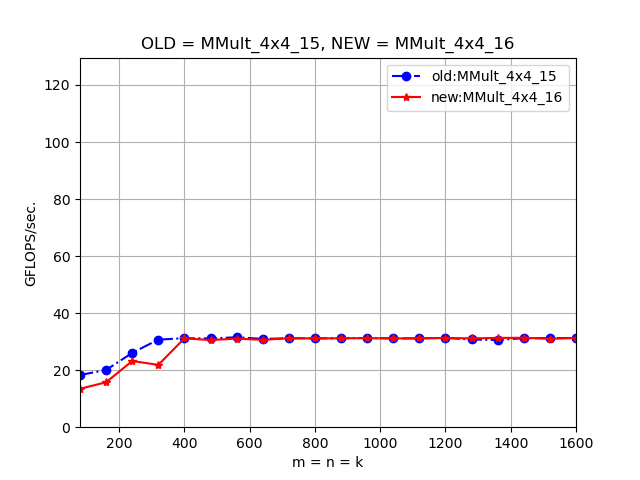
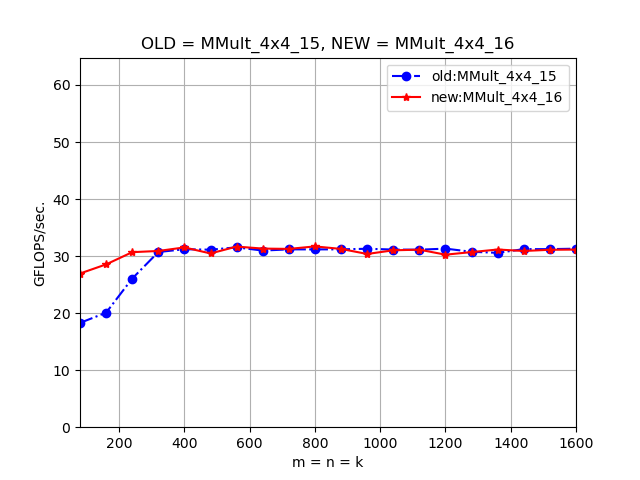
Replaced SSE with Neon directly

diff --git a/src/HowToOptimizeGemm/MMult_4x4_17.c b/src/HowToOptimizeGemm/MMult_4x4_17.c
@@ -1,0 +1,193 @@
+/* Create macros so that the matrices are stored in column-major order */
+
+#define A(i, j) a[(j) * lda + (i)]
+#define B(i, j) b[(j) * ldb + (i)]
+#define C(i, j) c[(j) * ldc + (i)]
+
+/* Block sizes */
+#define mc 256
+#define kc 128
+#define nb 1600
+
+#define min(i, j) ((i) < (j) ? (i) : (j))
+
+/* Routine for computing C = A * B + C */
+
+void AddDot4x4(int, double *, int, double *, int, double *, int);
+void PackMatrixA(int, double *, int, double *);
+void PackMatrixB(int, double *, int, double *);
+void InnerKernel(int, int, int, double *, int, double *, int, double *, int, int);
+
+void MY_MMult(int m, int n, int k, double *a, int lda,
+              double *b, int ldb,
+              double *c, int ldc)
+{
+  int i, p, pb, ib;
+
+  /* This time, we compute a mc x n block of C by a call to the InnerKernel */
+
+  for (p = 0; p < k; p += kc)
+  {
+    pb = min(k - p, kc);
+    for (i = 0; i < m; i += mc)
+    {
+      ib = min(m - i, mc);
+      InnerKernel(ib, n, pb, &A(i, p), lda, &B(p, 0), ldb, &C(i, 0), ldc, i == 0);
+    }
+  }
+}
+
+void InnerKernel(int m, int n, int k, double *a, int lda,
+                 double *b, int ldb,
+                 double *c, int ldc, int first_time)
+{
+  int i, j;
+  double
+      packedA[m * k];
+  static double
+      packedB[kc * nb]; /* Note: using a static buffer is not thread safe... */
+
+  for (j = 0; j < n; j += 4)
+  { /* Loop over the columns of C, unrolled by 4 */
+    if (first_time)
+      PackMatrixB(k, &B(0, j), ldb, &packedB[j * k]);
+    for (i = 0; i < m; i += 4)
+    { /* Loop over the rows of C */
+      /* Update C( i,j ), C( i,j+1 ), C( i,j+2 ), and C( i,j+3 ) in
+   one routine (four inner products) */
+      if (j == 0)
+        PackMatrixA(k, &A(i, 0), lda, &packedA[i * k]);
+      AddDot4x4(k, &packedA[i * k], 4, &packedB[j * k], k, &C(i, j), ldc);
+    }
+  }
+}
+
+void PackMatrixA(int k, double *a, int lda, double *a_to)
+{
+  int j;
+
+  for (j = 0; j < k; j++)
+  { /* loop over columns of A */
+    double
+        *a_ij_pntr = &A(0, j);
+
+    *a_to = *a_ij_pntr;
+    *(a_to + 1) = *(a_ij_pntr + 1);
+    *(a_to + 2) = *(a_ij_pntr + 2);
+    *(a_to + 3) = *(a_ij_pntr + 3);
+
+    a_to += 4;
+  }
+}
+
+void PackMatrixB(int k, double *b, int ldb, double *b_to)
+{
+  int i;
+  double
+      *b_i0_pntr = &B(0, 0),
+      *b_i1_pntr = &B(0, 1),
+      *b_i2_pntr = &B(0, 2), *b_i3_pntr = &B(0, 3);
+
+  for (i = 0; i < k; i++)
+  { /* loop over rows of B */
+    *b_to++ = *b_i0_pntr++;
+    *b_to++ = *b_i1_pntr++;
+    *b_to++ = *b_i2_pntr++;
+    *b_to++ = *b_i3_pntr++;
+  }
+}
+
+// #include "sse2neon.h" // SSE2NEON
+#include <arm_neon.h> // ARM NEON intrinsics
+
+typedef union
+{
+  float64x2_t v;
+  double d[2];
+} v2df_t;
+
+void AddDot4x4(int k, double *a, int lda, double *b, int ldb, double *c, int ldc)
+{
+  /* So, this routine computes a 4x4 block of matrix A
+
+           C( 0, 0 ), C( 0, 1 ), C( 0, 2 ), C( 0, 3 ).
+           C( 1, 0 ), C( 1, 1 ), C( 1, 2 ), C( 1, 3 ).
+           C( 2, 0 ), C( 2, 1 ), C( 2, 2 ), C( 2, 3 ).
+           C( 3, 0 ), C( 3, 1 ), C( 3, 2 ), C( 3, 3 ).
+
+     Notice that this routine is called with c = C( i, j ) in the
+     previous routine, so these are actually the elements
+
+           C( i  , j ), C( i  , j+1 ), C( i  , j+2 ), C( i  , j+3 )
+           C( i+1, j ), C( i+1, j+1 ), C( i+1, j+2 ), C( i+1, j+3 )
+           C( i+2, j ), C( i+2, j+1 ), C( i+2, j+2 ), C( i+2, j+3 )
+           C( i+3, j ), C( i+3, j+1 ), C( i+3, j+2 ), C( i+3, j+3 )
+
+     in the original matrix C
+
+     And now we use vector registers and instructions */
+
+  int p;
+  v2df_t
+      c_00_c_10_vreg,
+      c_01_c_11_vreg, c_02_c_12_vreg, c_03_c_13_vreg,
+      c_20_c_30_vreg, c_21_c_31_vreg, c_22_c_32_vreg, c_23_c_33_vreg,
+      a_0p_a_1p_vreg,
+      a_2p_a_3p_vreg,
+      b_p0_vreg, b_p1_vreg, b_p2_vreg, b_p3_vreg;
+
+  c_00_c_10_vreg.v = vdupq_n_f64(0.0);
+  c_01_c_11_vreg.v = vdupq_n_f64(0.0);
+  c_02_c_12_vreg.v = vdupq_n_f64(0.0);
+  c_03_c_13_vreg.v = vdupq_n_f64(0.0);
+  c_20_c_30_vreg.v = vdupq_n_f64(0.0);
+  c_21_c_31_vreg.v = vdupq_n_f64(0.0);
+  c_22_c_32_vreg.v = vdupq_n_f64(0.0);
+  c_23_c_33_vreg.v = vdupq_n_f64(0.0);
+
+  for (p = 0; p < k; p++)
+  {
+    a_0p_a_1p_vreg.v = vld1q_f64(a);
+    a_2p_a_3p_vreg.v = vld1q_f64(a + 2);
+    a += 4;
+
+    b_p0_vreg.v = vld1q_dup_f64(b);       /* load and duplicate */
+    b_p1_vreg.v = vld1q_dup_f64(b + 1); /* load and duplicate */
+    b_p2_vreg.v = vld1q_dup_f64(b + 2); /* load and duplicate */
+    b_p3_vreg.v = vld1q_dup_f64(b + 3); /* load and duplicate */
+
+    b += 4;
+    
+    /* First row and second rows */
+    c_00_c_10_vreg.v = vfmaq_f64(c_00_c_10_vreg.v, a_0p_a_1p_vreg.v, b_p0_vreg.v);
+    c_01_c_11_vreg.v = vfmaq_f64(c_01_c_11_vreg.v, a_0p_a_1p_vreg.v, b_p1_vreg.v);
+    c_02_c_12_vreg.v = vfmaq_f64(c_02_c_12_vreg.v, a_0p_a_1p_vreg.v, b_p2_vreg.v);
+    c_03_c_13_vreg.v = vfmaq_f64(c_03_c_13_vreg.v, a_0p_a_1p_vreg.v, b_p3_vreg.v);
+    
+    /* Third and fourth rows */
+    c_20_c_30_vreg.v = vfmaq_f64(c_20_c_30_vreg.v, a_2p_a_3p_vreg.v, b_p0_vreg.v);
+    c_21_c_31_vreg.v = vfmaq_f64(c_21_c_31_vreg.v, a_2p_a_3p_vreg.v, b_p1_vreg.v);
+    c_22_c_32_vreg.v = vfmaq_f64(c_22_c_32_vreg.v, a_2p_a_3p_vreg.v, b_p2_vreg.v);
+    c_23_c_33_vreg.v = vfmaq_f64(c_23_c_33_vreg.v, a_2p_a_3p_vreg.v, b_p3_vreg.v);
+  }
+
+  C(0, 0) += c_00_c_10_vreg.d[0];
+  C(0, 1) += c_01_c_11_vreg.d[0];
+  C(0, 2) += c_02_c_12_vreg.d[0];
+  C(0, 3) += c_03_c_13_vreg.d[0];
+
+  C(1, 0) += c_00_c_10_vreg.d[1];
+  C(1, 1) += c_01_c_11_vreg.d[1];
+  C(1, 2) += c_02_c_12_vreg.d[1];
+  C(1, 3) += c_03_c_13_vreg.d[1];
+
+  C(2, 0) += c_20_c_30_vreg.d[0];
+  C(2, 1) += c_21_c_31_vreg.d[0];
+  C(2, 2) += c_22_c_32_vreg.d[0];
+  C(2, 3) += c_23_c_33_vreg.d[0];
+
+  C(3, 0) += c_20_c_30_vreg.d[1];
+  C(3, 1) += c_21_c_31_vreg.d[1];
+  C(3, 2) += c_22_c_32_vreg.d[1];
+  C(3, 3) += c_23_c_33_vreg.d[1];
+}

diff --git a/src/HowToOptimizeGemm/output_MMult_4x4_16.m b/src/HowToOptimizeGemm/output_MMult_4x4_16.m
@@ -1,23 +1,23 @@
 version = 'MMult_4x4_16';
 MY_MMult = [
-80 1.347368e+01 4.440892e-15 
-160 1.575385e+01 1.065814e-14 
-240 2.321411e+01 2.842171e-14 
-320 2.185262e+01 3.907985e-14 
-400 3.115871e+01 4.973799e-14 
-480 3.055028e+01 6.394885e-14 
-560 3.106598e+01 7.460699e-14 
-640 3.061536e+01 9.237056e-14 
-720 3.121716e+01 9.237056e-14 
-800 3.111138e+01 1.350031e-13 
-880 3.118794e+01 1.065814e-13 
-960 3.122469e+01 1.278977e-13 
-1040 3.110581e+01 1.207923e-13 
-1120 3.121715e+01 1.492140e-13 
-1200 3.128225e+01 1.705303e-13 
-1280 3.114713e+01 2.131628e-13 
-1360 3.130507e+01 2.025047e-13 
-1440 3.135830e+01 2.131628e-13 
-1520 3.099853e+01 2.273737e-13 
-1600 3.129453e+01 2.273737e-13 
+80 3.103030e+01 4.440892e-15 
+160 3.150769e+01 1.065814e-14 
+240 3.229907e+01 2.842171e-14 
+320 3.176733e+01 3.907985e-14 
+400 2.992052e+01 4.973799e-14 
+480 3.074562e+01 6.394885e-14 
+560 3.103030e+01 7.460699e-14 
+640 3.130078e+01 9.237056e-14 
+720 3.092489e+01 9.237056e-14 
+800 3.121000e+01 1.350031e-13 
+880 3.069279e+01 1.065814e-13 
+960 3.006698e+01 1.278977e-13 
+1040 3.110882e+01 1.207923e-13 
+1120 3.113138e+01 1.492140e-13 
+1200 3.117558e+01 1.705303e-13 
+1280 3.116125e+01 2.131628e-13 
+1360 3.129377e+01 2.025047e-13 
+1440 3.128437e+01 2.131628e-13 
+1520 3.114672e+01 2.273737e-13 
+1600 3.130888e+01 2.273737e-13 
 ];

diff --git a/src/HowToOptimizeGemm/output_MMult_4x4_17.m b/src/HowToOptimizeGemm/output_MMult_4x4_17.m
@@ -1,0 +1,23 @@
+version = 'MMult_4x4_17';
+MY_MMult = [
+80 2.925714e+01 4.440892e-15 
+160 2.854355e+01 1.065814e-14 
+240 2.985745e+01 2.842171e-14 
+320 3.146231e+01 3.907985e-14 
+400 3.044719e+01 4.973799e-14 
+480 3.135138e+01 6.394885e-14 
+560 3.152890e+01 7.460699e-14 
+640 3.102847e+01 9.237056e-14 
+720 3.102257e+01 9.237056e-14 
+800 3.102466e+01 1.350031e-13 
+880 3.115229e+01 1.065814e-13 
+960 3.119882e+01 1.278977e-13 
+1040 3.105300e+01 1.207923e-13 
+1120 3.119913e+01 1.492140e-13 
+1200 3.133330e+01 1.705303e-13 
+1280 3.117723e+01 2.131628e-13 
+1360 3.132124e+01 2.025047e-13 
+1440 3.127913e+01 2.131628e-13 
+1520 3.126735e+01 2.273737e-13 
+1600 3.128389e+01 2.273737e-13 
+];

diff --git a/src/HowToOptimizeGemm/PlotAll.py b/src/HowToOptimizeGemm/PlotAll.py
@@ -4,7 +4,7 @@ import pathlib
 
 # Indicate the number of floating point operations that can be executed
 # per clock cycle
-nflops_per_cycle = 32
+nflops_per_cycle = 16
 
 # Indicate the number of processors being used (in case you are using a
 # multicore or SMP)
